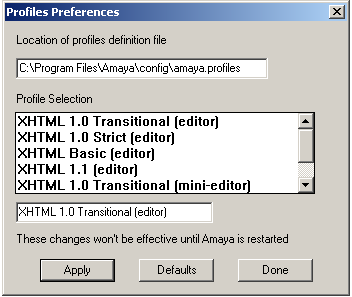
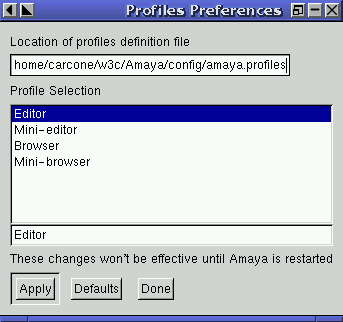
Update doc about profiles Laurent

diff --git a/doc/html/configuring_amaya/menu_preferences.html b/doc/html/configuring_amaya/menu_preferences.html
@@ -7,7 +7,7 @@
   <title>Menu Preferences</title>
   <style type="text/css">
   </style>
-  <meta name="GENERATOR" content="amaya 5.2" />
+  <meta name="GENERATOR" content="amaya 5.3, see http://www.w3.org/Amaya/" />
   <link href="../style.css" rel="stylesheet" type="text/css" />
 </head>
 
@@ -487,15 +487,13 @@ transparently request any of these versions.</p>
 
 <h2>Profiles</h2>
 
-<p>In Amaya, a <em>profile</em> defines the look and feel of the Amaya user
+<p>In Amaya, a <em>profile</em> defines the look and feel of the user
 interface. You can use profiles to hide or display the Amaya buttons and
 menus. This dialog enables you to choose a profile definition file and select
-any of the profiles proposed by that file. Amaya proposes five editor
-profiles: <em>XHTML 1.0 Transitional (editor and mini-editor), XHTML 1.0
-Strict, XHTML Basic, XHTML 1.1</em> and two browser profiles: <em>XHTML 1.0
-Transitional (browser and mini-browser)</em>, each with different
-capabilities. Any profile change will be effective on the next launch of
-Amaya.</p>
+any of the profiles proposed by that file. Amaya proposes two editor profiles
+(<em>editor and mini-editor)</em> and two browser profiles (<em>browser and
+mini-browser</em>). Any profile change will be effective on the next launch
+of Amaya.</p>
 
 <p><img alt="Profiles Preferences Dialog"
 src="../../images/profiles_preferences.png" /></p>
